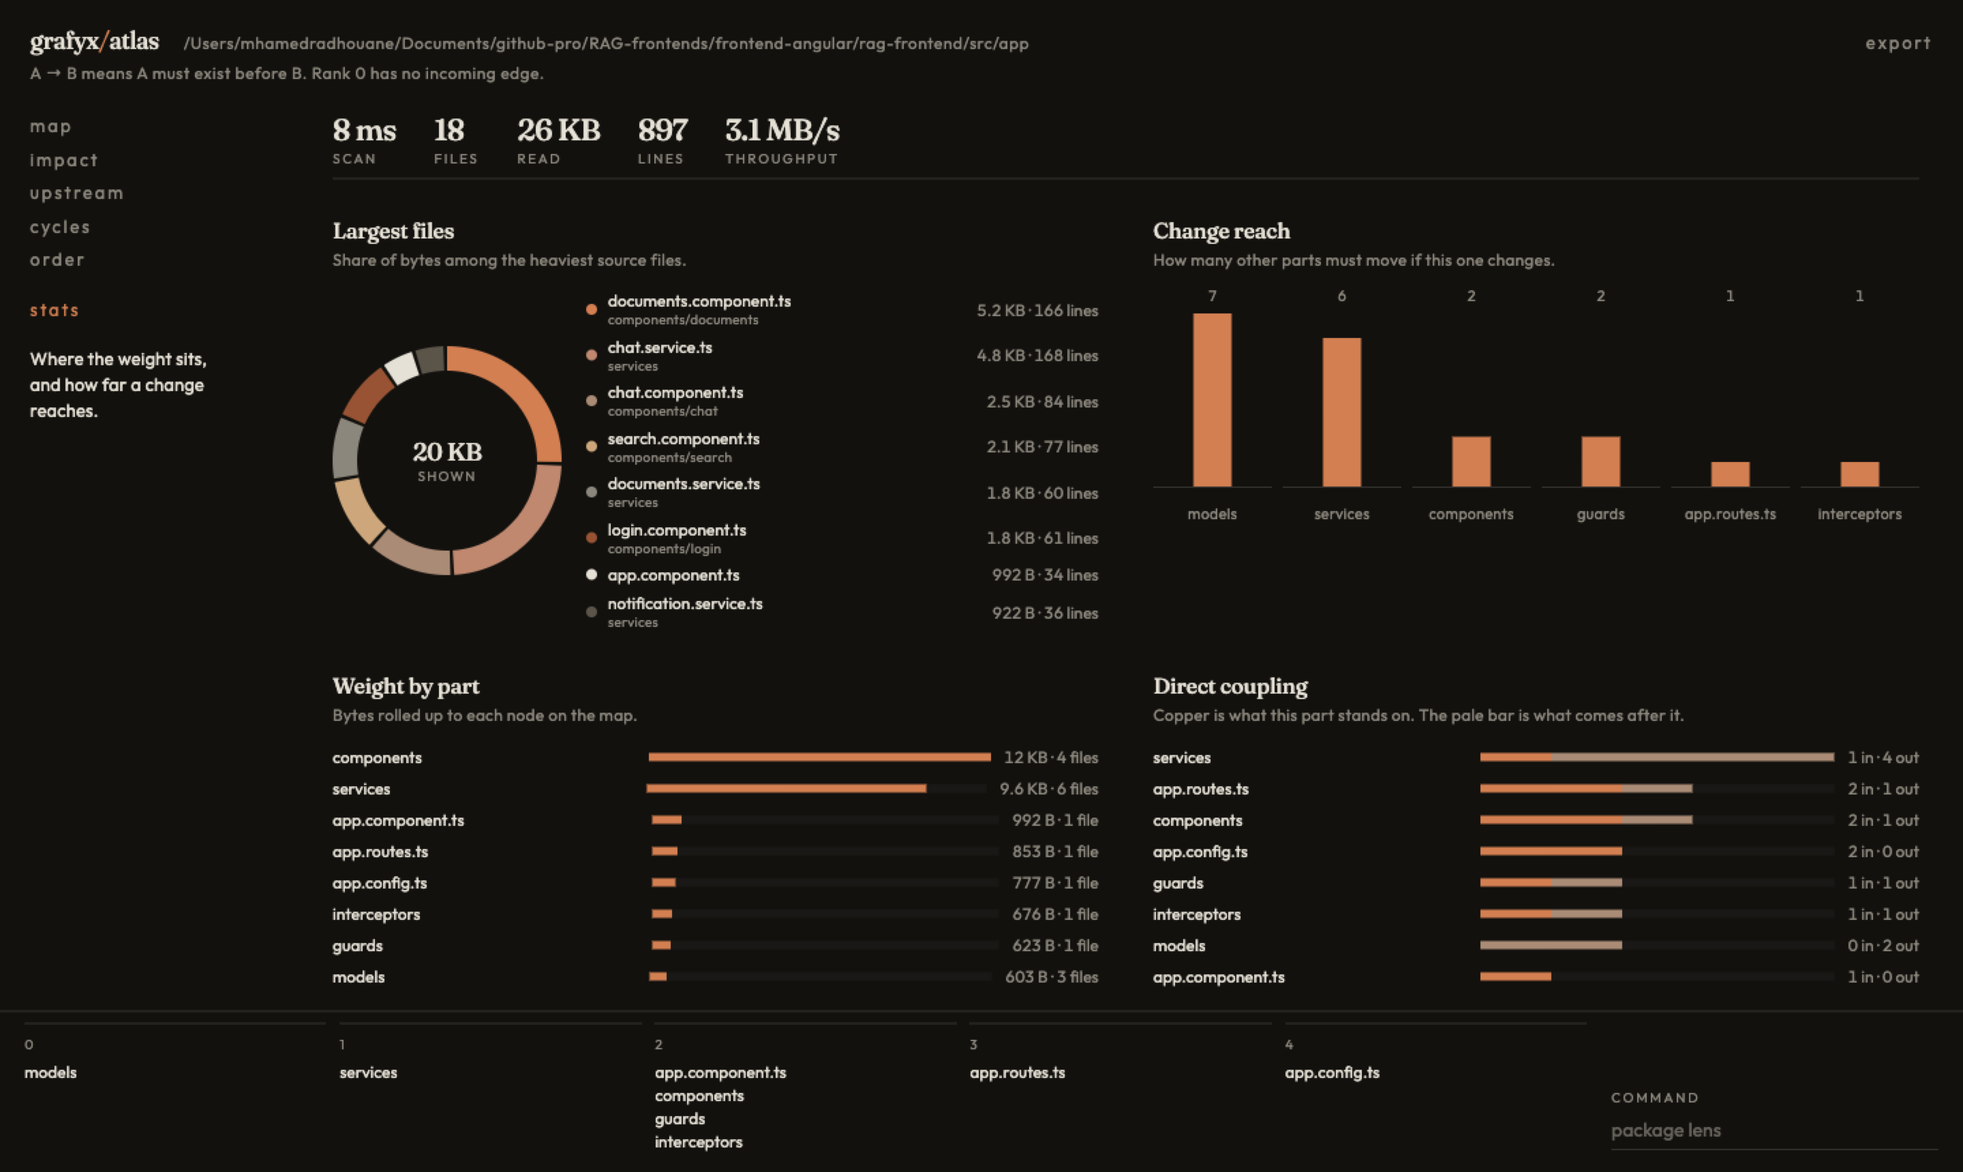
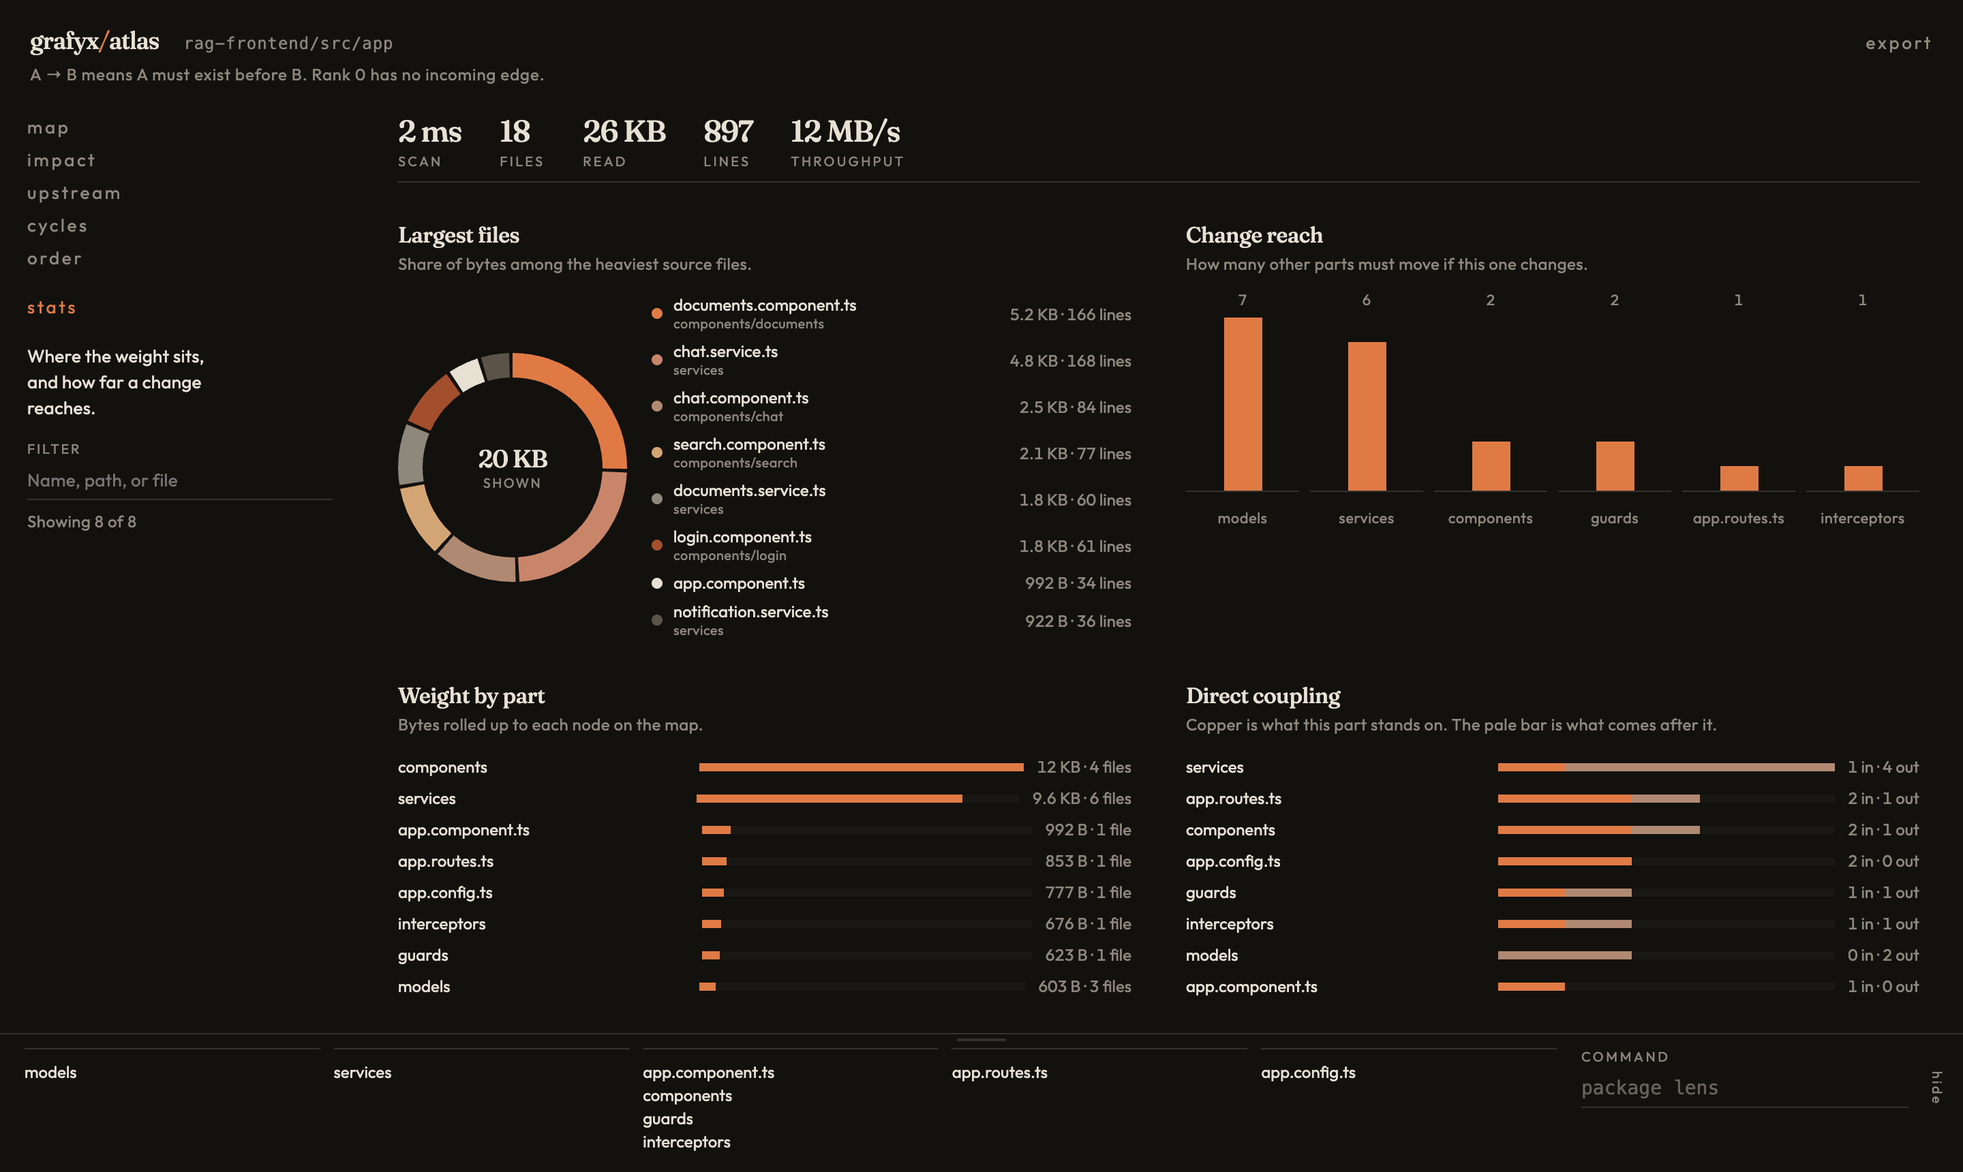
docs: update docs

diff --git a/packages/atlas/README.md b/packages/atlas/README.md
@@ -4,7 +4,7 @@
 
 grafyx/atlas scans a project and draws it as a directed graph: which parts must exist before which others, what a change will reach, what a part stands on, where the order is impossible, and the schedule that falls out of it. It runs as a local web app and exports what you see to Draw.io, PDF, or JPEG.
 
-![grafyx/atlas: start it, explore the map, check impact and upstream, cycles and order, go deeper, and export](https://raw.githubusercontent.com/MhamedR/Grafyx/main/packages/atlas/docs/demo.gif)
+![grafyx/atlas: start it, explore the map, check impact and upstream, cycles and order, read the stats, go deeper, and export](https://raw.githubusercontent.com/MhamedR/Grafyx/main/packages/atlas/docs/demo.gif)
 
 The pictures in this guide are the `src/app` folder of an Angular front end (`rag-frontend`). Every screenshot comes from that project, except the loop under [Cycles](#cycles).
 
@@ -47,7 +47,7 @@ A dependency list tells you what imports what. It does not tell you what order t
 - **Go deeper.** Right-click a folder to see the files inside it and the files one import away.
 - **Inspect anything.** Hover a node and, after a short pause, a tooltip lists its files and edges. Click it to pin those details in the rail. A folder with more than 24 files shows the count instead of every name.
 - **The path.** Beside the wordmark. It follows the selected part, shortens in the middle when it is long, and copies to the clipboard when you click it.
-- **Zoom.** **−**, the current scale, and **+** sit on the graph, with **Search**, focus, and captions. Click the percentage to fit the picture again. The wheel zooms toward the pointer.
+- **Zoom.** **−**, the current scale, and **+** sit on the graph, with **Search**, focus, and captions. Click the percentage to fit the picture again. The wheel zooms toward the pointer. An overview in the corner shows the part in view.
 - **The order strip.** The same schedule as the ranks. Drag its top edge to resize it, or hide it from the handle on the right.
 - **Export** the current picture to Draw.io (editable), PDF, or JPEG.
 - **Keyboard first.** **⌘K** / **Ctrl K** searches. A filter field narrows the graph. Arrow keys walk edges. **?** lists the shortcuts.
@@ -104,11 +104,13 @@ The line under the wordmark sets the one rule: **A → B means A must exist befo
 
 The path beside the wordmark starts as the project root. Select a part and it becomes that part's location. After you go deeper, with nothing selected, it shows the depth you are in. A long path shortens in the middle and keeps the start and the end. Hover it for the full path, and click it to copy. **copied** confirms the clipboard write.
 
-To the left of **export**, **−** and **+** zoom the fitted picture. The percentage between them is the scale. **100%** fits the picture to the frame. Click it to reset zoom and pan. The range is 50% to 275%. The wheel zooms toward the pointer. When the picture is larger than the frame, drag the empty field to move it. **stats** hides these controls.
+The toolbar at the top right of the field holds **Search**, **−**, the scale, **+**, the focus menu, **Captions**, and **?**. **−** and **+** zoom the fitted picture. **100%** fits the picture to the frame. Click the percentage to reset zoom and pan. The range is 50% to 400%. The wheel zooms toward the pointer. When the picture is larger than the frame, drag the empty field to move it. The overview in the bottom right corner shows the whole picture and the part in view; click it to move the view there. **stats** hides the toolbar and the overview.
 
 An arrow runs from the thing that must exist first to the thing that depends on it. On a source map, an imported part points at the part that imports it. So `models → services` means `services` imports `models`.
 
-Folders are drawn as folders and list their file count; loose files are drawn as pages. The strip along the bottom, the filmstrip, is the same schedule as a list, one column per rank. Drag its top edge to give the names more room; they stay at the top of the strip. The handle on the right hides it, and **order** opens it again.
+Folders are drawn as folders and list their file count and size; loose files are drawn as pages with their size.
+
+Select a part and its direct neighbours stay lit in every lens: blue for the parts it depends on, amber for the parts that require it. Everything else dims, unless the lens keeps it lit. The strip along the bottom, the filmstrip, is the same schedule as a list, one column per rank. Drag its top edge to give the names more room; they stay at the top of the strip. The handle on the right hides it, and **order** opens it again.
 
 For `rag-frontend/src/app`:
 
@@ -132,17 +134,17 @@ The five lenses sit at the top of the left rail. Each one has a sentence under i
 
 **map** is the whole source, in dependency order: "The source, in dependency order."
 
-Every node and edge is lit. Click a node to select it, and the rail lists its path, its files, and every edge touching it. Hover the same node and, after a short pause, a tooltip repeats that, with its rank. A pass across the map leaves the tooltip closed. Moving to a nearby node keeps the open tooltip until you rest on the next one. A folder with more than 24 files shows the count, such as `30 files`, in the rail and in the tooltip. Shorter lists stay listed, with each file's size in the rail. The filter still matches file names that are not drawn. Each edge is marked **stands on** (this part depends on that one) or **before** (this part must exist before that one).
+With nothing selected, every node and edge is lit. Click a node to select it: its direct neighbours stay lit and the rest dims. The rail lists its kind, its path, its files with their sizes, and its dependencies and dependents. **Dependencies** opens **upstream** and keeps only what the part stands on, **Dependents** opens **impact** and keeps only what it reaches, **Neighborhood** returns to **map** with one hop around it, and **Copy id** copies its name. Hover the same node and, after a short pause, a tooltip repeats that, with its size and rank. A pass across the map leaves the tooltip closed. Moving to a nearby node keeps the open tooltip until you rest on the next one. A folder with more than 24 files shows the count, such as `30 files`, in the rail and in the tooltip. Shorter lists stay listed, with each file's size in the rail. The filter still matches file names that are not drawn. In the tooltip, each edge is marked **stands on** (this part depends on that one) or **before** (this part must exist before that one).
 
-Here `services` is selected. It holds six files, stands on `models`, and comes before `app.component.ts`, `components`, `guards`, and `interceptors`.
+Here `services` is selected. It holds six files, 9.6 KB, stands on `models` (blue), and comes before `app.component.ts`, `components`, `guards`, and `interceptors` (amber). `app.routes.ts` and `app.config.ts` are not direct neighbours, so they dim.
 
 ### Impact
 
-![Impact of services: everything downstream stays lit, models dims](https://raw.githubusercontent.com/MhamedR/Grafyx/main/packages/atlas/docs/impact.png)
+![Impact of services: everything downstream stays lit](https://raw.githubusercontent.com/MhamedR/Grafyx/main/packages/atlas/docs/impact.png)
 
 Select a part, then **impact**: "What must change if this part changes."
 
-With `services` selected, everything downstream stays lit: `app.component.ts`, `components`, `guards`, `interceptors`, `app.routes.ts`, and `app.config.ts`. `models` dims, because a change in `services` cannot reach it. The edges into the lit parts are the paths the change travels.
+With `services` selected, everything downstream stays lit: `app.component.ts`, `components`, `guards`, and `interceptors` in amber, because they import `services` directly, then `app.routes.ts` and `app.config.ts`. The edges into the lit parts are the paths the change travels. A change in `services` cannot reach `models`; it stays lit in blue only because it is a direct dependency of the selection.
 
 ### Upstream
 
@@ -150,7 +152,7 @@ With `services` selected, everything downstream stays lit: `app.component.ts`, `
 
 Select a part, then **upstream**: "What this part stands on."
 
-`app.routes.ts` imports `components` and `guards` directly, and through them `services` and `models`. Those stay lit. `app.component.ts`, `interceptors`, and `app.config.ts` dim: `app.config.ts` imports the routes, so it is downstream, not upstream.
+`app.routes.ts` imports `components` and `guards` directly (blue), and through them `services` and `models`. Those stay lit. `app.component.ts` and `interceptors` dim. `app.config.ts` imports the routes, so it is downstream, not upstream; it stays lit in amber only because it is a direct neighbour of the selection.
 
 ### Cycles
 
@@ -162,7 +164,7 @@ When a project does contain a loop, this lens keeps it lit and dims everything e
 
 ![Cycles lens on a small example: auth and users import each other](https://raw.githubusercontent.com/MhamedR/Grafyx/main/packages/atlas/docs/cycles-loop.png)
 
-This second picture is a four-file example made for this guide, since the Angular app has no loop to show. `auth/session.ts` imports `users/user.ts`, and `users/user.ts` imports `auth/token.ts`, so `auth` and `users` each stand on the other.
+This second picture is a five-file example made for this guide, since the Angular app has no loop to show. `auth/session.ts` imports `users/user.ts`, and `users/user.ts` imports `auth/token.ts`, so `auth` and `users` each stand on the other.
 
 ### Order
 
@@ -215,7 +217,7 @@ The file name is the last folder of `--root` and the lens: `<project>-<lens>.<ex
 
 ![Exported JPEG: impact of services](https://raw.githubusercontent.com/MhamedR/Grafyx/main/packages/atlas/docs/export-impact.jpeg)
 
-Dimmed nodes keep their dimmed opacity in every format, so an exported impact or upstream picture reads the same way as the screen. The button is disabled while there is nothing to draw. If an export fails, the reason appears under the button.
+The file keeps the lens: in every format, parts outside it are drawn faded, so an exported impact or upstream picture reads like the screen. The blue and amber neighbour colours stay on screen. That is why `models`, which a change in `services` cannot reach, is faded in this export. The button is disabled while there is nothing to draw. If an export fails, the reason appears under the button.
 
 Export is a browser feature of the map. The library API does not expose it.
 
@@ -235,6 +237,7 @@ Export is a browser feature of the map. The library API does not expose it.
 | Click the zoom percentage, or **F**      | Fit the graph                                                                                           |
 | Wheel                                    | Zoom toward the pointer                                                                                 |
 | Drag the empty field                     | Pan, once the picture is larger than the frame                                                          |
+| Click the overview                       | Move the view to that spot                                                                              |
 | Drag the top edge of the filmstrip       | Resize it                                                                                               |
 | **hide** / **order**                     | Collapse the filmstrip, or open it again                                                                |
 | Right-click a folder                     | **Go deeper**                                                                                           |

diff --git a/packages/grafyx-atlas-vscode/README.md b/packages/grafyx-atlas-vscode/README.md
@@ -4,7 +4,7 @@
 
 Grafyx Atlas scans a project and draws it as a directed graph: which parts must exist before which others, what a change will reach, what a part stands on, where the order is impossible, and the schedule that falls out of it. This extension hosts that map in a VS Code tab, and puts the same questions on the command palette and the right-click menu.
 
-![grafyx/atlas: start it, explore the map, check impact and upstream, cycles and order, go deeper, and export](https://raw.githubusercontent.com/MhamedR/Grafyx/main/packages/atlas/docs/demo.gif)
+![grafyx/atlas: start it, explore the map, check impact and upstream, cycles and order, read the stats, go deeper, and export](https://raw.githubusercontent.com/MhamedR/Grafyx/main/packages/atlas/docs/demo.gif)
 
 The pictures in this guide are the `src/app` folder of an Angular front end (`rag-frontend`). Every screenshot comes from that project, except the loop under [Cycles](#cycles). The full atlas guide, including the library API and the CLI, is the [grafyx-atlas readme](https://github.com/MhamedR/Grafyx/blob/main/packages/atlas/README.md).
 
@@ -70,9 +70,11 @@ Refresh the tab to rescan. The server reads the tree again on every load. Unsave
 
 An arrow runs from the thing that must exist first to the thing that depends on it. On a source map, an imported part points at the part that imports it. So `models → services` means `services` imports `models`.
 
-Folders are drawn as folders and list their file count; loose files are drawn as pages. The strip along the bottom, the filmstrip, is the same schedule as a list, one column per rank. Drag its top edge to give the names more room; they stay at the top of the strip. The handle on the right hides it, and **order** opens it again.
+Folders are drawn as folders and list their file count and size; loose files are drawn as pages with their size. The strip along the bottom, the filmstrip, is the same schedule as a list, one column per rank. Drag its top edge to give the names more room; they stay at the top of the strip. The handle on the right hides it, and **order** opens it again.
 
-To the left of **export**, **−** and **+** zoom the fitted picture. The percentage between them is the scale. **100%** fits the picture to the frame. Click it to reset zoom and pan. The range is 50% to 275%. The wheel zooms toward the pointer. When the picture is larger than the frame, drag the empty field to move it. **stats** hides these controls.
+The toolbar at the top right of the field holds **Search**, **−**, the scale, **+**, the focus menu, **Captions**, and **?**. **−** and **+** zoom the fitted picture. **100%** fits the picture to the frame. Click the percentage to reset zoom and pan. The range is 50% to 400%. The wheel zooms toward the pointer. When the picture is larger than the frame, drag the empty field to move it. The overview in the bottom right corner shows the whole picture and the part in view; click it to move the view there. **stats** hides the toolbar and the overview.
+
+Select a part and its direct neighbours stay lit in every lens: blue for the parts it depends on, amber for the parts that require it. Everything else dims, unless the lens keeps it lit.
 
 For `rag-frontend/src/app`:
 
@@ -96,17 +98,17 @@ The five lenses sit at the top of the left rail. Each one has a sentence under i
 
 **map** is the whole source, in dependency order: "The source, in dependency order."
 
-Every node and edge is lit. Click a node to select it, and the rail lists its path, its files, and every edge touching it. Hover the same node and, after a short pause, a tooltip repeats that, with its rank. A pass across the map leaves the tooltip closed. Moving to a nearby node keeps the open tooltip until you rest on the next one. A folder with more than 24 files shows the count, such as `30 files`, in the rail and in the tooltip. Shorter lists stay listed, with each file's size in the rail. The filter still matches file names that are not drawn. Each edge is marked **stands on** (this part depends on that one) or **before** (this part must exist before that one).
+With nothing selected, every node and edge is lit. Click a node to select it: its direct neighbours stay lit and the rest dims. The rail lists its kind, its path, its files with their sizes, and its dependencies and dependents. **Dependencies** opens **upstream** and keeps only what the part stands on, **Dependents** opens **impact** and keeps only what it reaches, **Neighborhood** returns to **map** with one hop around it, and **Copy id** copies its name. Hover the same node and, after a short pause, a tooltip repeats that, with its size and rank. A pass across the map leaves the tooltip closed. Moving to a nearby node keeps the open tooltip until you rest on the next one. A folder with more than 24 files shows the count, such as `30 files`, in the rail and in the tooltip. Shorter lists stay listed, with each file's size in the rail. The filter still matches file names that are not drawn. In the tooltip, each edge is marked **stands on** (this part depends on that one) or **before** (this part must exist before that one).
 
-Here `services` is selected. It holds six files, stands on `models`, and comes before `app.component.ts`, `components`, `guards`, and `interceptors`.
+Here `services` is selected. It holds six files, 9.6 KB, stands on `models` (blue), and comes before `app.component.ts`, `components`, `guards`, and `interceptors` (amber). `app.routes.ts` and `app.config.ts` are not direct neighbours, so they dim.
 
 ### Impact
 
-![Impact of services: everything downstream stays lit, models dims](https://raw.githubusercontent.com/MhamedR/Grafyx/main/packages/atlas/docs/impact.png)
+![Impact of services: everything downstream stays lit](https://raw.githubusercontent.com/MhamedR/Grafyx/main/packages/atlas/docs/impact.png)
 
 Select a part, then **impact**: "What must change if this part changes." On a package map the sentence is "What must be rebuilt if this package changes."
 
-With `services` selected, everything downstream stays lit: `app.component.ts`, `components`, `guards`, `interceptors`, `app.routes.ts`, and `app.config.ts`. `models` dims, because a change in `services` cannot reach it. The edges into the lit parts are the paths the change travels.
+With `services` selected, everything downstream stays lit: `app.component.ts`, `components`, `guards`, and `interceptors` in amber, because they import `services` directly, then `app.routes.ts` and `app.config.ts`. The edges into the lit parts are the paths the change travels. A change in `services` cannot reach `models`; it stays lit in blue only because it is a direct dependency of the selection.
 
 ### Upstream
 
@@ -114,7 +116,7 @@ With `services` selected, everything downstream stays lit: `app.component.ts`, `
 
 Select a part, then **upstream**: "What this part stands on."
 
-`app.routes.ts` imports `components` and `guards` directly, and through them `services` and `models`. Those stay lit. `app.component.ts`, `interceptors`, and `app.config.ts` dim: `app.config.ts` imports the routes, so it is downstream, not upstream.
+`app.routes.ts` imports `components` and `guards` directly (blue), and through them `services` and `models`. Those stay lit. `app.component.ts` and `interceptors` dim. `app.config.ts` imports the routes, so it is downstream, not upstream; it stays lit in amber only because it is a direct neighbour of the selection.
 
 ### Cycles
 
@@ -126,7 +128,7 @@ When a project does contain a loop, this lens keeps it lit and dims everything e
 
 ![Cycles lens on a small example: auth and users import each other](https://raw.githubusercontent.com/MhamedR/Grafyx/main/packages/atlas/docs/cycles-loop.png)
 
-This second picture is a four-file example made for the atlas guide, since the Angular app has no loop to show. `auth/session.ts` imports `users/user.ts`, and `users/user.ts` imports `auth/token.ts`, so `auth` and `users` each stand on the other.
+This second picture is a five-file example made for the atlas guide, since the Angular app has no loop to show. `auth/session.ts` imports `users/user.ts`, and `users/user.ts` imports `auth/token.ts`, so `auth` and `users` each stand on the other.
 
 **Show Cycles** also publishes a warning in the Problems panel for each file in a loop. The source is `Grafyx Atlas`. Warnings sit at the start of the file, because the scan reports parts and not source positions. There are no code actions: grafyx-atlas does not return edits. **Refresh Diagnostics** scans again and republishes those warnings.
 
